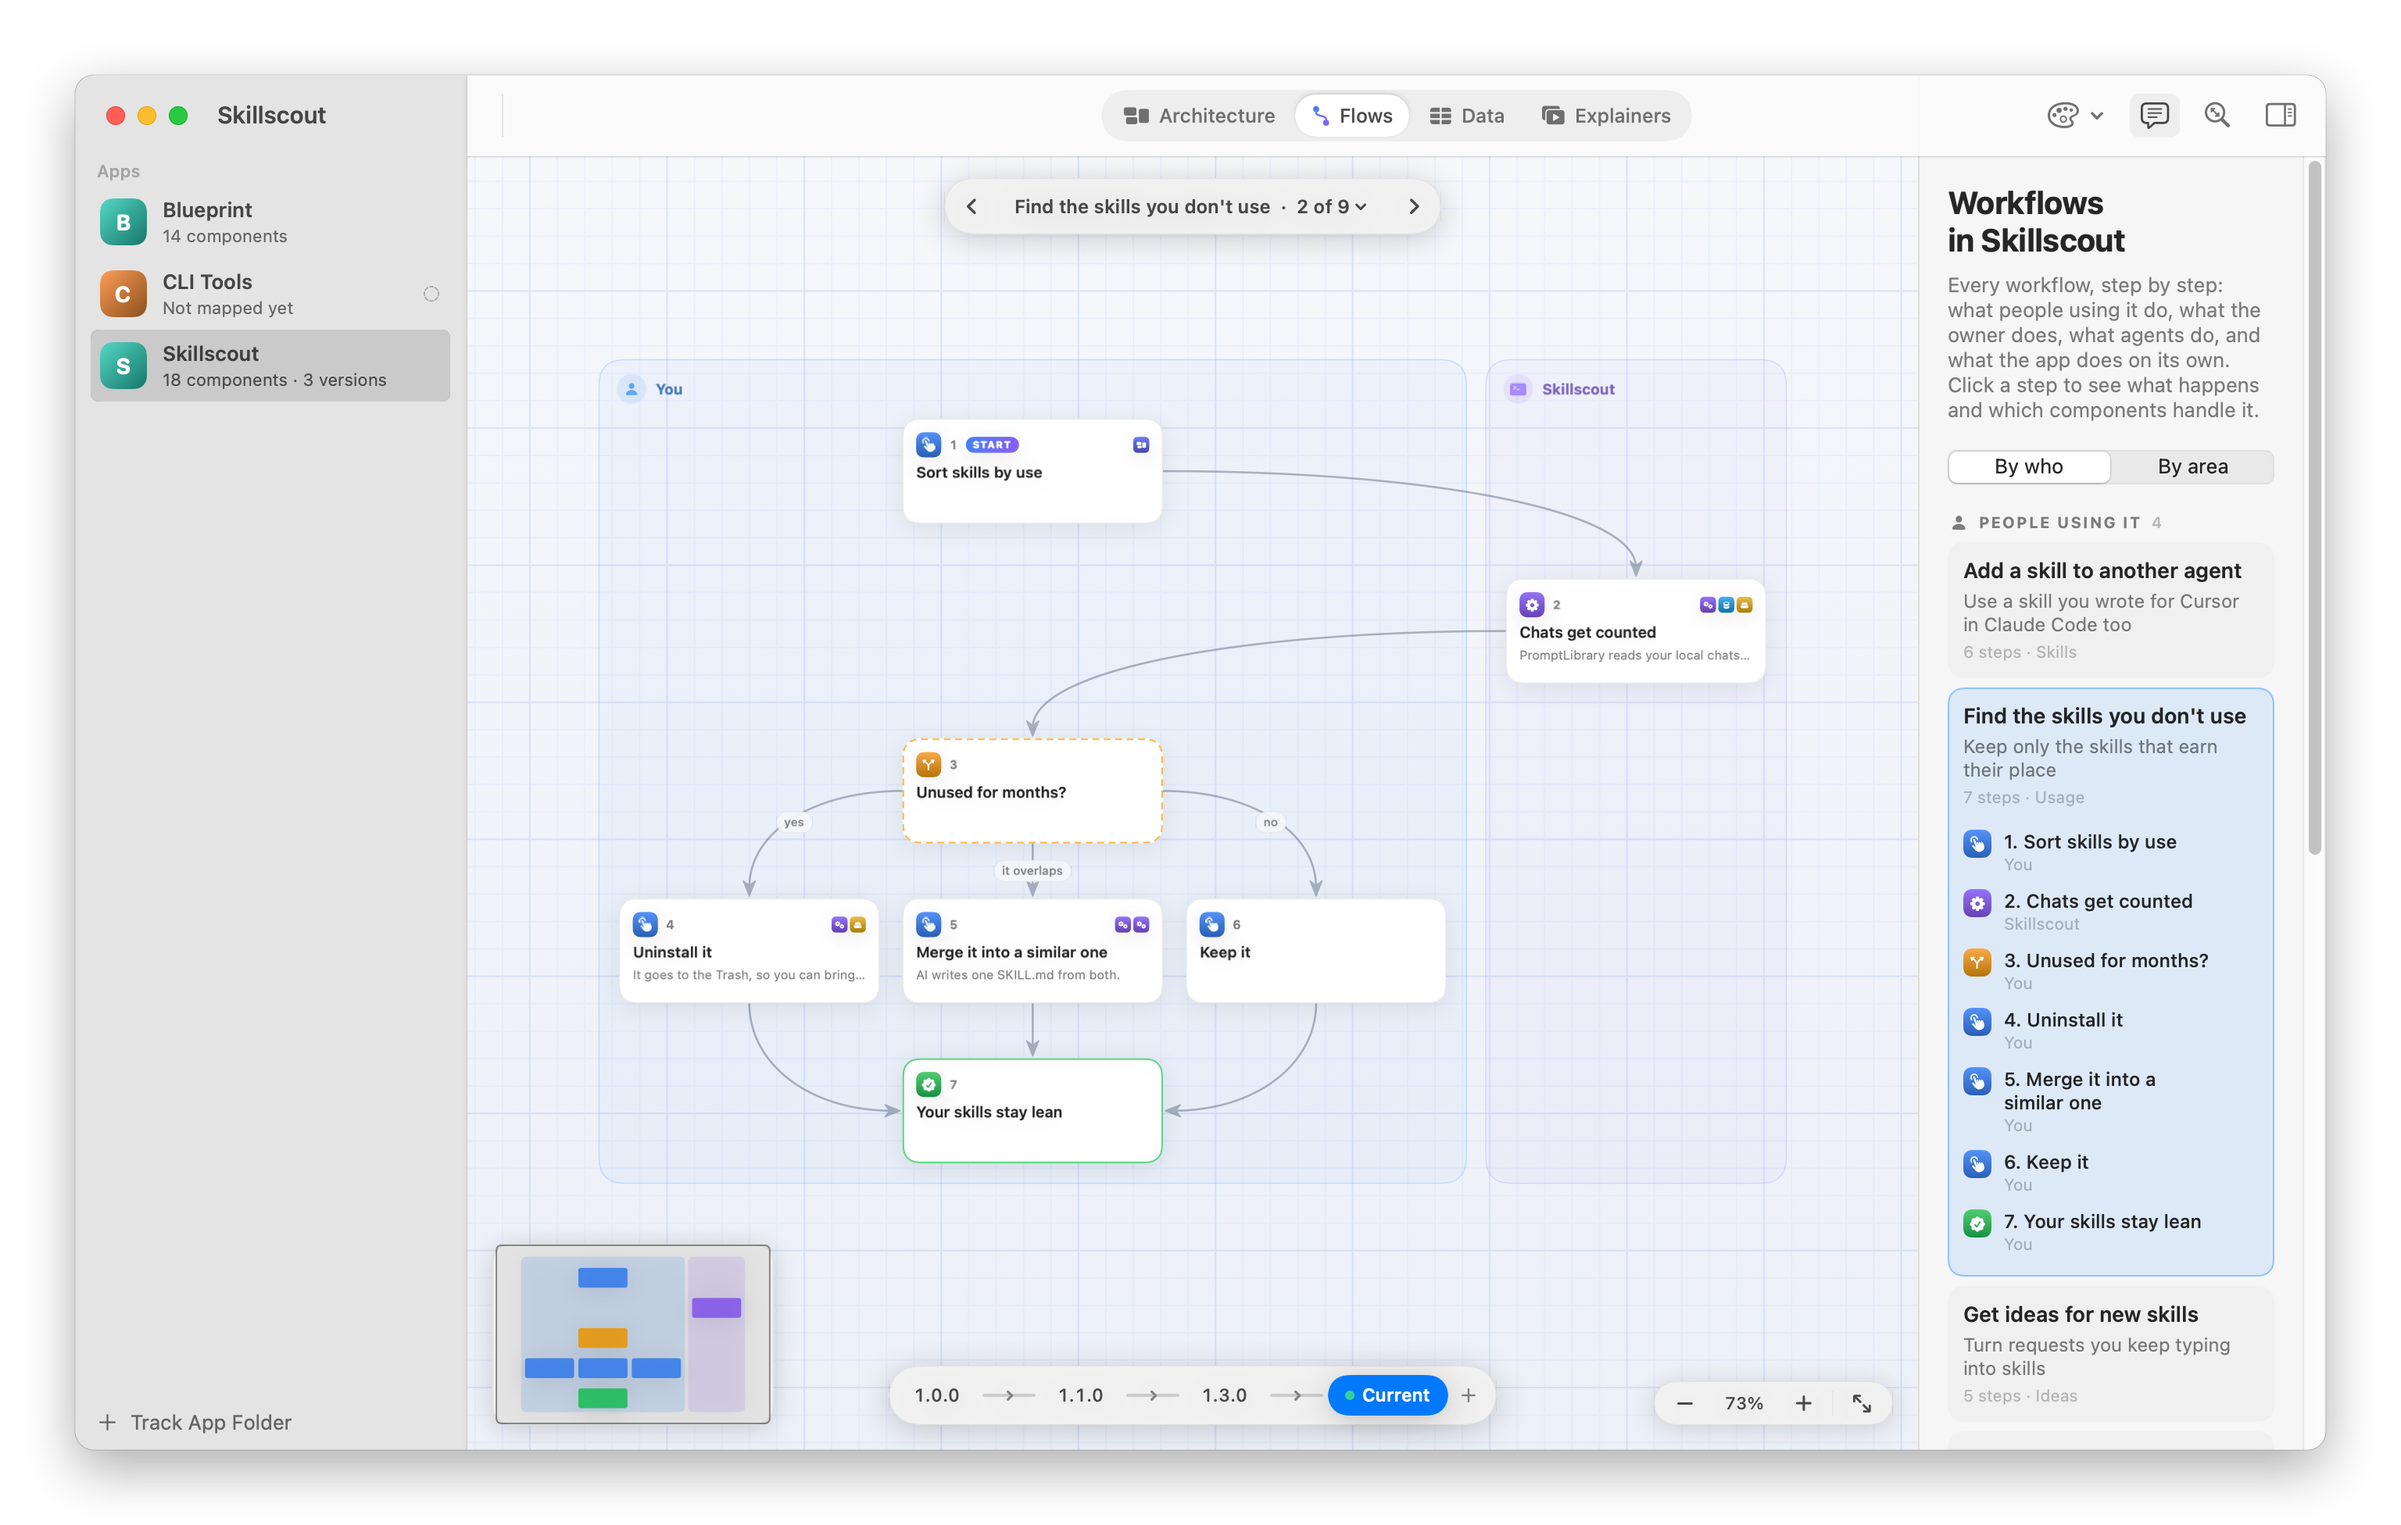
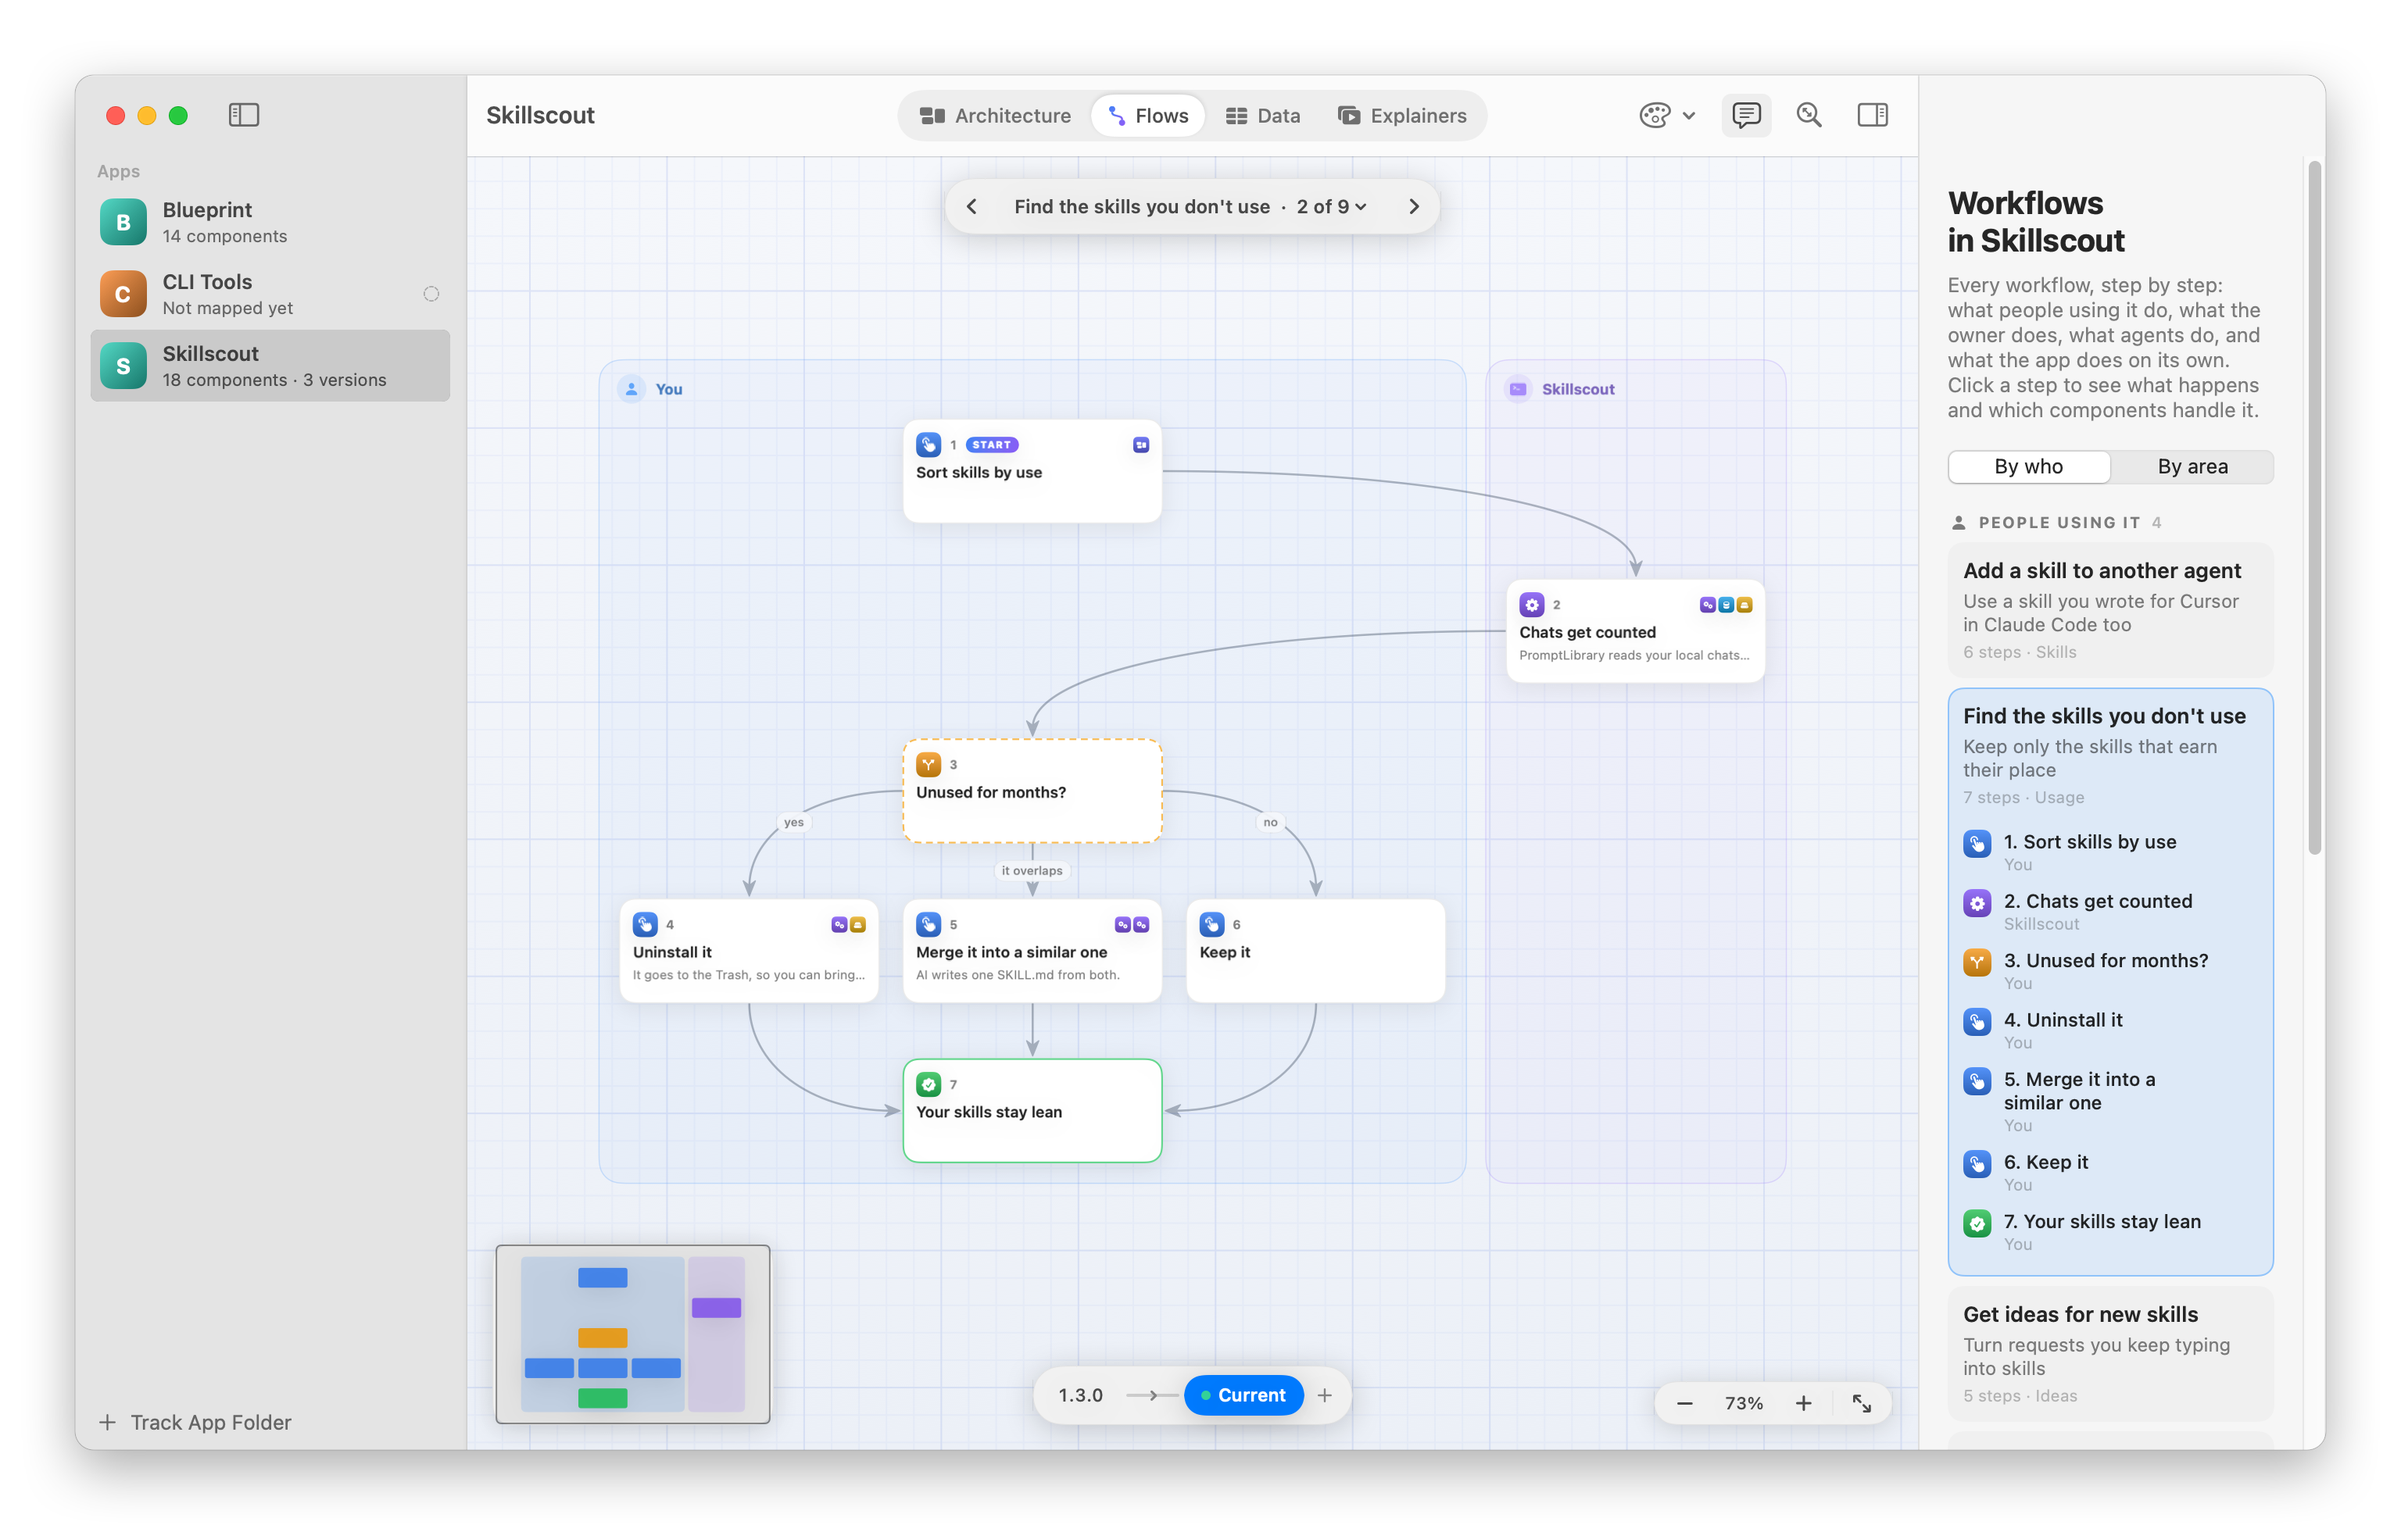
Timeline lists only the versions that have what each tab shows, and inspector prompts stack in the narrow column

diff --git a/Blueprint/Welcome.swift b/Blueprint/Welcome.swift
@@ -215,36 +215,64 @@ struct ProjectChip: View {
 struct PromptCard: View {
   let text: String
   var prominent = false
+  /// The copy button under the prompt instead of beside it, for narrow columns like the inspector.
+  var stacked = false
   @State private var copied = false
 
   var body: some View {
     let shape = RoundedRectangle(cornerRadius: 14, style: .continuous)
-    HStack(spacing: 12) {
-      Image(systemName: "text.bubble.fill")
-        .font(.system(size: 17))
-        .foregroundStyle(Theme.brand)
-      Text(text)
-        .font(.system(size: 12.5, design: .monospaced))
-        .textSelection(.enabled)
-        .frame(maxWidth: .infinity, alignment: .leading)
-      Button {
-        NSPasteboard.general.clearContents()
-        NSPasteboard.general.setString(text, forType: .string)
-        copied = true
-        Task {
-          try? await Task.sleep(for: .seconds(2))
-          copied = false
+    Group {
+      if stacked {
+        VStack(alignment: .leading, spacing: 10) {
+          HStack(alignment: .top, spacing: 10) {
+            icon
+            prompt
+          }
+          copyButton
+            .frame(maxWidth: .infinity, alignment: .trailing)
         }
-      } label: {
-        Label(copied ? "Copied" : "Copy", systemImage: copied ? "checkmark" : "doc.on.doc")
-          .contentTransition(.symbolEffect(.replace))
+      } else {
+        HStack(spacing: 12) {
+          icon
+          prompt
+          copyButton
+        }
       }
-      .controlSize(prominent ? .large : .regular)
-      .modifier(CopyButtonStyle(prominent: prominent))
     }
     .padding(14)
     .background(.regularMaterial, in: shape)
     .overlay(shape.strokeBorder(Color.primary.opacity(0.08), lineWidth: 1))
+  }
+
+  private var icon: some View {
+    Image(systemName: "text.bubble.fill")
+      .font(.system(size: 17))
+      .foregroundStyle(Theme.brand)
+  }
+
+  private var prompt: some View {
+    Text(text)
+      .font(.system(size: 12.5, design: .monospaced))
+      .textSelection(.enabled)
+      .frame(maxWidth: .infinity, alignment: .leading)
+      .fixedSize(horizontal: false, vertical: stacked)
+  }
+
+  private var copyButton: some View {
+    Button {
+      NSPasteboard.general.clearContents()
+      NSPasteboard.general.setString(text, forType: .string)
+      copied = true
+      Task {
+        try? await Task.sleep(for: .seconds(2))
+        copied = false
+      }
+    } label: {
+      Label(copied ? "Copied" : "Copy", systemImage: copied ? "checkmark" : "doc.on.doc")
+        .contentTransition(.symbolEffect(.replace))
+    }
+    .controlSize(prominent ? .large : .regular)
+    .modifier(CopyButtonStyle(prominent: prominent))
   }
 }
 

diff --git a/Blueprint/AppStore.swift b/Blueprint/AppStore.swift
@@ -111,6 +111,7 @@ final class AppStore {
       UserDefaults.standard.set(level.rawValue, forKey: "diagramLevel")
       selectedBlock = nil
       if level == .overview { selectedNode = nil }
+      keepVersionsThatShowIt()
       refreshCanvas()
       if let tourStep { showStep(tourStep) } else { request(.fit) }
     }
@@ -123,6 +124,7 @@ final class AppStore {
       explainerPlaying = false
       // Explainers play one version as it is, so a comparison would only color them.
       if mode == .explainers { comparing = nil }
+      keepVersionsThatShowIt()
     }
   }
   var selectedEntity: String?
@@ -348,6 +350,28 @@ final class AppStore {
     if let block = selectedBlock, canvasDiagram?.architecture.node(block) == nil {
       selectedBlock = nil
     }
+  }
+
+  /// The versions the timeline offers on this tab and level: the ones that have what it shows, and the current
+  /// architecture always. Versions mapped before flows, data, explainers or the overview existed have nothing to show there.
+  func timelineRefs(_ data: AppData) -> [VersionRef] {
+    data.refs.filter { ref in
+      guard ref != .current, let architecture = data.snapshot(ref)?.architecture else { return true }
+      return switch mode {
+      case .architecture: level != .overview || !architecture.overview.isEmpty
+      case .flows: !architecture.flows.isEmpty
+      case .data: !architecture.entities.isEmpty
+      case .explainers: !architecture.explainers.isEmpty
+      }
+    }
+  }
+
+  /// Moves off a version, and drops a comparison with one, that has nothing to show on this tab and level.
+  private func keepVersionsThatShowIt() {
+    guard let data = selectedData else { return }
+    let refs = timelineRefs(data)
+    if let comparing, !refs.contains(comparing) { self.comparing = nil }
+    if !refs.contains(viewing) { viewing = .current }
   }
 
   /// The overview blocks that stand for any of these components.

diff --git a/Blueprint/Inspector.swift b/Blueprint/Inspector.swift
@@ -582,7 +582,7 @@ struct FlowsOverview: View {
           .font(.system(size: 12.5))
           .foregroundStyle(.secondary)
           .fixedSize(horizontal: false, vertical: true)
-        PromptCard(text: store.flowsPrompt(for: app))
+        PromptCard(text: store.flowsPrompt(for: app), stacked: true)
       }
     } else {
       Picker("Group", selection: $store.flowGrouping) {
@@ -798,7 +798,7 @@ struct NoWalkthrough: View {
         .font(.system(size: 12.5))
         .foregroundStyle(.secondary)
         .fixedSize(horizontal: false, vertical: true)
-      PromptCard(text: store.walkthroughPrompt(for: app))
+      PromptCard(text: store.walkthroughPrompt(for: app), stacked: true)
     }
   }
 }
@@ -996,7 +996,7 @@ struct ExplainersOverview: View {
           .font(.system(size: 12.5))
           .foregroundStyle(.secondary)
           .fixedSize(horizontal: false, vertical: true)
-        PromptCard(text: store.explainersPrompt(for: app))
+        PromptCard(text: store.explainersPrompt(for: app), stacked: true)
       }
     } else {
       VStack(alignment: .leading, spacing: 6) {
@@ -1097,7 +1097,7 @@ struct DataOverview: View {
           .font(.system(size: 12.5))
           .foregroundStyle(.secondary)
           .fixedSize(horizontal: false, vertical: true)
-        PromptCard(text: store.dataPrompt(for: app))
+        PromptCard(text: store.dataPrompt(for: app), stacked: true)
       }
     } else {
       let stores = architecture.entities.reduce(into: [String?]()) { stores, entity in

diff --git a/scripts/screenshot.swift b/scripts/screenshot.swift
@@ -83,7 +83,7 @@ let scenes = extra != nil ? [
   DemoScene(name: "screenshot-theme-terminal-data", app: "skillscout", mode: .data, entity: "parsed-file", theme: .terminal),
   DemoScene(name: "screenshot-theme-minimal-flow", app: "skillscout", mode: .flows, flow: "prune-skills", theme: .minimal),
   DemoScene(name: "screenshot-compare", app: "skillscout", comparing: .version("1.0.0")),
-  DemoScene(name: "screenshot-status", app: "blueprint"),
+  DemoScene(name: "screenshot-version", app: "skillscout", viewing: .version("1.0.0")),  DemoScene(name: "screenshot-status", app: "blueprint"),
   DemoScene(name: "screenshot-level-overview", app: "skillscout", level: .overview),
   DemoScene(name: "screenshot-level-overview-block", app: "skillscout", level: .overview, block: "finder"),
   DemoScene(name: "screenshot-level-overview-tour", app: "skillscout", tour: 1, level: .overview),
@@ -217,12 +217,13 @@ func capture(_ store: AppStore, host: NSHostingController<AnyView>, window: NSWi
     }
     store.selectedID = scene.app
     store.tourStep = nil
+    // The tab goes first: switching it, or the level, moves off versions that have nothing to show there.
+    store.mode = scene.mode
     store.viewing = scene.viewing
     store.comparing = scene.comparing
     store.level = scene.level
     store.selectedNode = scene.node
     store.selectedBlock = scene.block
-    store.mode = scene.mode
     store.selectedFlowID = scene.flow
     store.selectedStep = scene.step
     store.selectedEntity = scene.entity

diff --git a/Blueprint/DetailView.swift b/Blueprint/DetailView.swift
@@ -462,7 +462,7 @@ struct Timeline: View {
   @Environment(\.colorScheme) private var scheme
 
   var body: some View {
-    let refs = data.refs
+    let refs = store.timelineRefs(data)
     let viewing = refs.firstIndex(of: store.viewing)
     let base = store.comparing.flatMap { refs.firstIndex(of: $0) }
     let range: ClosedRange<Int>? = if let viewing, let base { min(viewing, base)...max(viewing, base) } else { nil }
@@ -492,7 +492,7 @@ struct Timeline: View {
       }
       Button { store.isSavingVersion = true } label: {
         Group {
-          if refs.count == 1 {
+          if data.versions.isEmpty {
             Label("Save as Version", systemImage: "plus")
               .padding(.horizontal, 10)
           } else {

diff --git a/AGENTS.md b/AGENTS.md
@@ -13,7 +13,7 @@ The app and the command share the files in `Blueprint/Core`, which only import F
 
 App only:
 
-- `AppStore.swift`: the observable state: tracked apps, the version shown, the comparison, the walkthrough step, the canvas mode (Architecture, Flows, Data or Explainers) and what's selected in each, the level of the architecture (`DiagramLevel`: Overview, In Depth or Technical) with `canvasDiagram`, what the architecture canvas draws at that level, the explainer slide and whether it plays, the file watchers, the status checks, and `blueprint://` URLs.
+- `AppStore.swift`: the observable state: tracked apps, the version shown, the comparison, the versions the timeline offers on each tab and level (`timelineRefs`: only the ones that have what it shows, like data on the Data tab, so versions mapped before flows, data, explainers or the overview existed drop out there, and switching to such a tab leaves them for Current), the walkthrough step, the canvas mode (Architecture, Flows, Data or Explainers) and what's selected in each, the level of the architecture (`DiagramLevel`: Overview, In Depth or Technical) with `canvasDiagram`, what the architecture canvas draws at that level, the explainer slide and whether it plays, the file watchers, the status checks, and `blueprint://` URLs.
 - `Layout.swift`: `DiagramLayout`. Each group is a box. Boxes get columns from a longest-path ranking, then move between columns while that makes connections shorter overall (a connection inside a column or pointing back costs more than one spanning columns). Inside a box, cards stack in the order their connections flow. Sweeps line boxes and cards up with their neighbors. The `Router` turns connections into curves: neighbors get one curve, longer ones run through the gaps between the boxes of each column they cross, bundled side by side, and connections within a column become nested arcs on its quieter side. Labels take the first spot along their connection that covers no card or other label, or show only while highlighted. `Metrics` sets the card size and the gaps for each level: In Depth, bigger cards for the overview's plain words, and the biggest cards and widest gaps for Technical, whose labels carry the connection's note.
 - `DiagramCanvas.swift`: `ZoomableCanvas`, the pannable and zoomable grid both canvases use (camera, minimap, zoom controls, the scroll and pinch event monitor), and on top of it the architecture: `Diagram`, `DiagramWorld`, group boxes, animated edges and labels. Below 55% zoom the group titles move out of their boxes into `Callout`s: full names at a constant size on screen, with an arrow to the box, placed where they cover no box, card or other callout. Clicking one zooms to its group.
 - `DataDiagram.swift`: the Data view: `DataLayout` (one box per store, ordered by the references between them; inside a box, entities in columns that follow their references, each card moved toward what it points to; a reference runs from its field's row to the header of its target, through the gaps between the cards of the columns it crosses), entity cards with a row per field, and the empty state.
